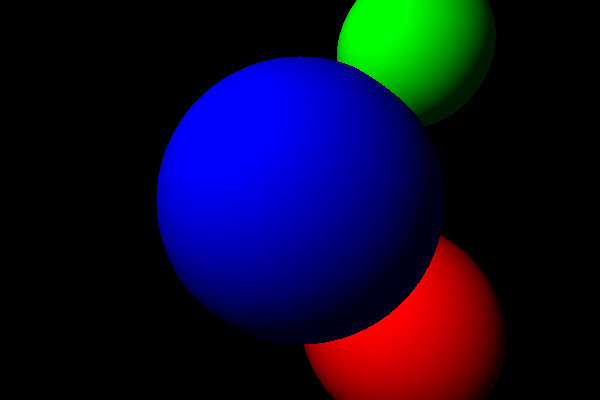
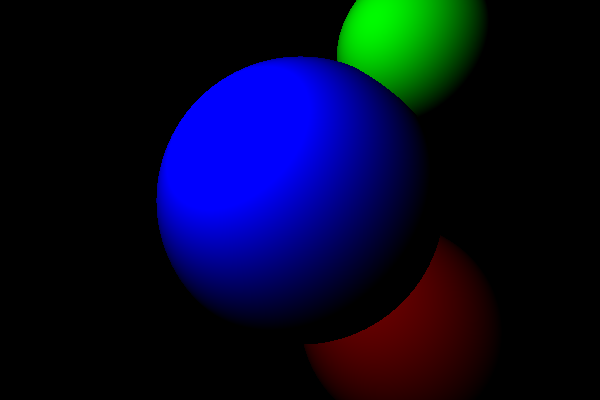
Changed the project name

Changed region(s): [[0.27, 0.0, 0.87, 1.0], [0.27, 0.18, 0.54, 0.54], [0.39, 0.15, 0.48, 0.18]]

diff --git a/RayTracer2 - Light/src/c/j/g/ray2/Raytracer.java b/RayTracer2 - Light/src/c/j/g/ray2/Raytracer.java
@@ -14,7 +14,7 @@ import lombok.Data;
 import lombok.experimental.Builder;
 import c.j.g.ray2.light.AmbientLighting;
 import c.j.g.ray2.light.Light;
-import c.j.g.ray2.light.PointLight;
+import c.j.g.ray2.light.DiffusePointLight;
 
 @Data
 @Builder
@@ -27,8 +27,8 @@ public class Raytracer {
 	spheren[2] = new Sphere(new Color(0, 1, 0), new Vec3(3, -4, 9), 2);
 
 	Light[] lights = new Light[2];
-	lights[0] = new AmbientLighting(new Color(0.1, 0.1, 0.1));
-	lights[1] = new PointLight(new Vec3(-5, -5, 0), new Color(1, 1, 1), 1);
+	lights[0] = new AmbientLighting(new Color(0.0, 0.0, 0.0));
+	lights[1] = new DiffusePointLight(new Vec3(-5, -5, 0), new Color(1, 1, 1), 1e2);
 
 	Raytracer tracer = new Raytracer(spheren, lights);
 	BufferedImage im = tracer.render(600, 400, 330);

diff --git a/RayTracer2 - Light/src/c/j/g/ray2/light/DiffusePointLight.java b/RayTracer2 - Light/src/c/j/g/ray2/light/DiffusePointLight.java
@@ -12,7 +12,7 @@ import static c.j.g.ray2.Color.*;
 @Data
 @Builder
 @AllArgsConstructor
-public class PointLight implements Light {
+public class DiffusePointLight implements Light {
 
     private final Vec3 origin;
     private final Color color;
@@ -20,10 +20,16 @@ public class PointLight implements Light {
 
     @Override
     public Color getColor(HitInfo hi) {
+	
+	double i = intensity;
+	i *= 1 / lenSqu(sub(hi.getGHitPoint(), origin));
+	if(i == 0)
+	    return Color.BLACK;
+	
 	Vec3 surfaceToLight = sub(origin, hi.getGHitPoint());
 	double brightness = cosAngle(hi.getGNormal(), surfaceToLight);
 	if (brightness < 0)
 	    return Color.BLACK;
-	return mul(color, intensity * brightness);
+	return mul(color, i * brightness);
     }
 }
